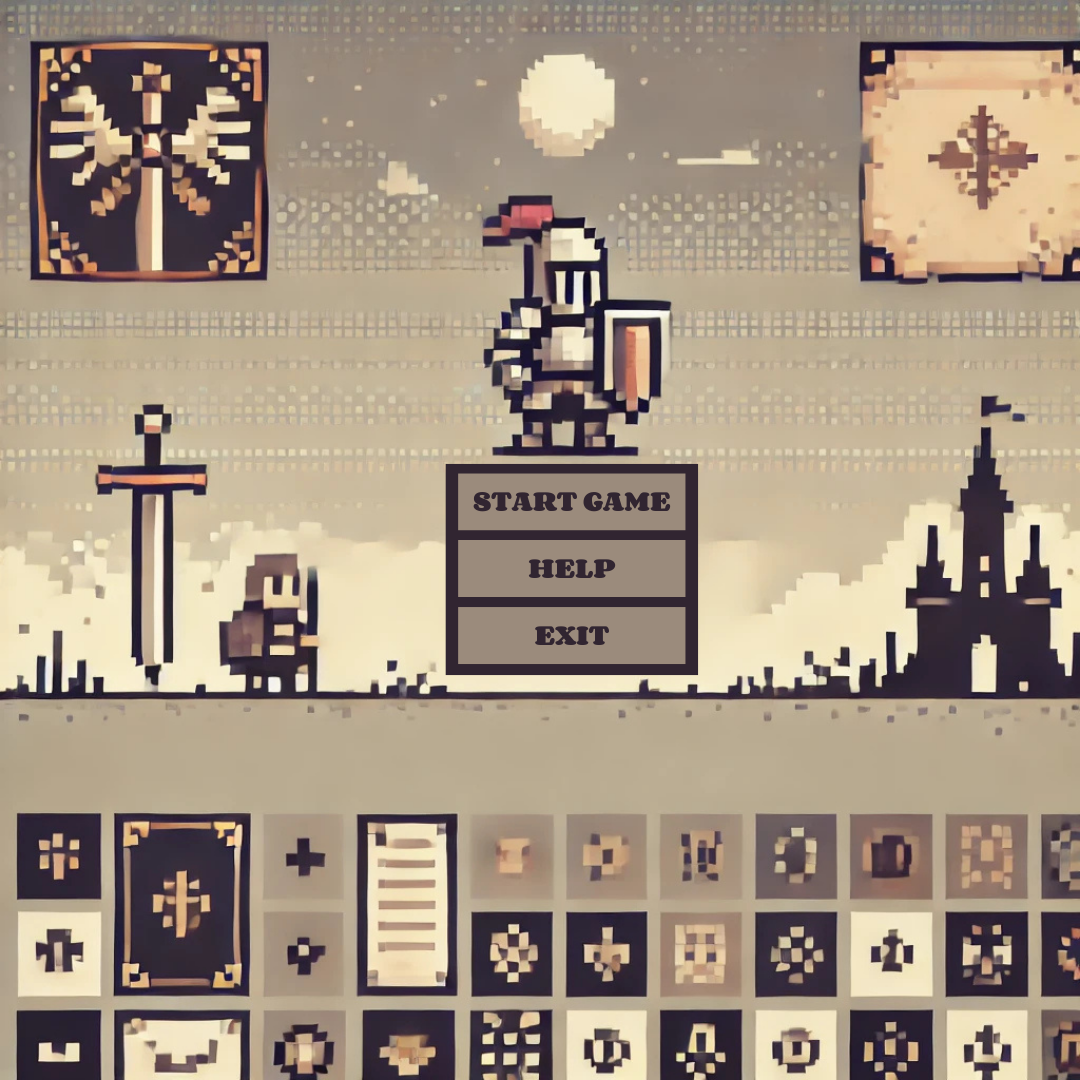
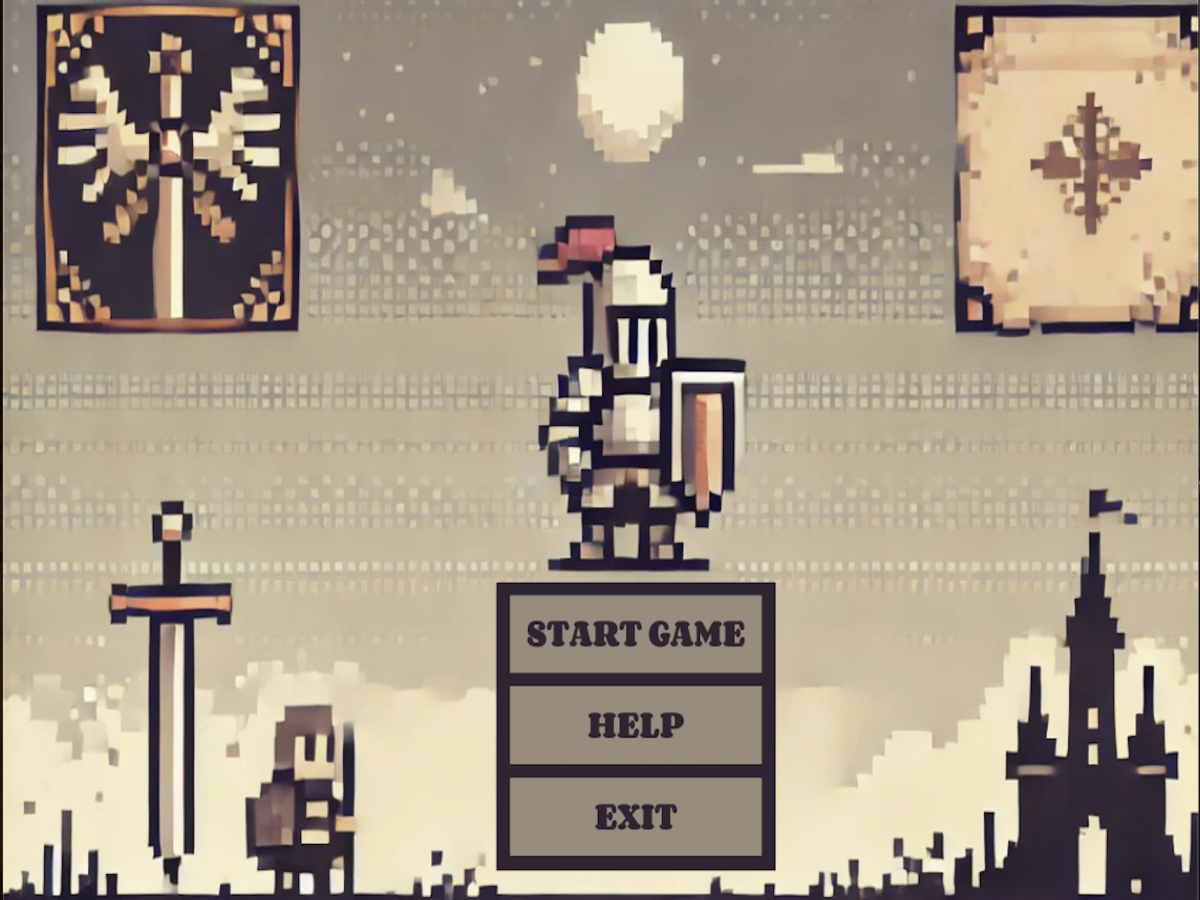
resize screens

diff --git a/src/UI/PlayModeScreen.java b/src/UI/PlayModeScreen.java
@@ -38,38 +38,39 @@ public class PlayModeScreen extends UIScreen implements KeyListener{
 
 
     public PlayModeScreen(GridEnvironment gridEnvironment, TimeController timeController, double remainingTime) {
-        super(650, 650, "Play Mode Screen", 
+        super(1200, 900, "Play Mode Screen", 
         "src/Images/BackgroundImages/HALL.png");
-            this.timeController = timeController;
-            this.timer = this.timeController.getTimer();
-            this.hallType = gridEnvironment.getHall().hallType;
-            this.gridEnvironment = gridEnvironment;
-            
-            // Set up grid listener to update UI on grid changes
-            this.gridEnvironment.setGridChangeListener(this::updateGridFromEnvironment);
-            // setGridChangeListener is assigning updateGridFromEnvironment 
-            // as the implementation of the onGridChanged method in the GridChangeListener interface.
-            this.timer.setTimeChangeListener(this::updateTime);
-            this.gridEnvironment.getHero().setLifeCountListener(this::updateLifeCount);
+        //650x650
+        this.timeController = timeController;
+        this.timer = this.timeController.getTimer();
+        this.hallType = gridEnvironment.getHall().hallType;
+        this.gridEnvironment = gridEnvironment;
+        
+        // Set up grid listener to update UI on grid changes
+        this.gridEnvironment.setGridChangeListener(this::updateGridFromEnvironment);
+        // setGridChangeListener is assigning updateGridFromEnvironment 
+        // as the implementation of the onGridChanged method in the GridChangeListener interface.
+        this.timer.setTimeChangeListener(this::updateTime);
+        this.gridEnvironment.getHero().setLifeCountListener(this::updateLifeCount);
 
-            setDefaultCloseOperation(JFrame.EXIT_ON_CLOSE);
+        setDefaultCloseOperation(JFrame.EXIT_ON_CLOSE);
 
-            initializeComponents();
-            initializeGrid();
-            populateInitialEntities(this.gridEnvironment.map);
-            updateGridFromEnvironment(gridEnvironment.getMap()); // Initialize grid with current map
-            
+        initializeComponents();
+        initializeGrid();
+        populateInitialEntities(this.gridEnvironment.map);
+        updateGridFromEnvironment(gridEnvironment.getMap()); // Initialize grid with current map
+        
 
-            // Ensure the component is focusable and has focus
-            setFocusable(true);
-            requestFocusInWindow();
+        // Ensure the component is focusable and has focus
+        setFocusable(true);
+        requestFocusInWindow();
 
-            addKeyListener(this);
+        addKeyListener(this);
 
-            setVisible(true);
-            System.out.println("Play Mode Screen Initialized");
-            timeController.startGame();
-            updateTime(remainingTime);
+        setVisible(true);
+        System.out.println("Play Mode Screen Initialized");
+        timeController.startGame();
+        updateTime(remainingTime);
     }
     
     

diff --git a/src/UI/UIScreen.java b/src/UI/UIScreen.java
@@ -30,8 +30,8 @@ public abstract class UIScreen extends JFrame{
         this.setResizable(false);
     	this.setTitle("Dungeon Engineers ROKUE-LIKE");
     	this.setSize(width, height);
-    	this.setLocationRelativeTo(null);
-    	this.setDefaultCloseOperation(JFrame.EXIT_ON_CLOSE);
+        this.setLocation(0, 0);    	
+        this.setDefaultCloseOperation(JFrame.EXIT_ON_CLOSE);
     	this.getContentPane().setLayout(null);
         backgroundPanel.setBounds(0, 0, width, height);
         backgroundPanel.setLocation(0, 0);
@@ -45,9 +45,10 @@ public abstract class UIScreen extends JFrame{
     	
     	this.setResizable(false);
     	this.setTitle("Dungeon Engineers ROKUE-LIKE");
-    	this.setSize(width, height);
-    	this.setLocationRelativeTo(null);
-    	this.setDefaultCloseOperation(JFrame.EXIT_ON_CLOSE);
+    	this.setSize(1200, 900); //TODO
+
+        this.setLocation(0, 0);
+        this.setDefaultCloseOperation(JFrame.EXIT_ON_CLOSE);
     	this.getContentPane().setLayout(null);
     	
     	backgroundPanel = new JPanel() {

diff --git a/ResizeImage.java b/ResizeImage.java
@@ -7,10 +7,10 @@ import javax.imageio.ImageIO;
 public class ResizeImage {
     public static void main(String[] args) {
         // Input and output file paths
-        String inputImagePath = "/Users/begumyilmaz/Documents/okul/koç/4.1/comp302/project/projectrepo/src/Images/BackgroundImages/mainMenuBackground.png"; // Replace with your input file path
+        String inputImagePath = "/Users/begumyilmaz/Documents/okul/koç/4.1/comp302/project/projectrepo/a.png"; // Replace with your input file path
         String outputImagePath = "output.png"; // Replace with your output file path
-        int scaledWidth = 600; // Desired width
-        int scaledHeight = 600; // Desired height
+        int scaledWidth = 1200; // Desired width
+        int scaledHeight = 900; // Desired height
 
         try {
             // Read the original image

diff --git a/src/UI/BuildModeScreen.java b/src/UI/BuildModeScreen.java
@@ -50,7 +50,7 @@ public class BuildModeScreen extends JPanel {
             frame = new JFrame("Build Mode");
             frame.setDefaultCloseOperation(JFrame.EXIT_ON_CLOSE);
             //frame.setSize(1210, 1000);
-            frame.setSize(1090, 810);
+            frame.setSize(1200, 900);
             frame.setResizable(false);
             
             frame.setContentPane(this);
